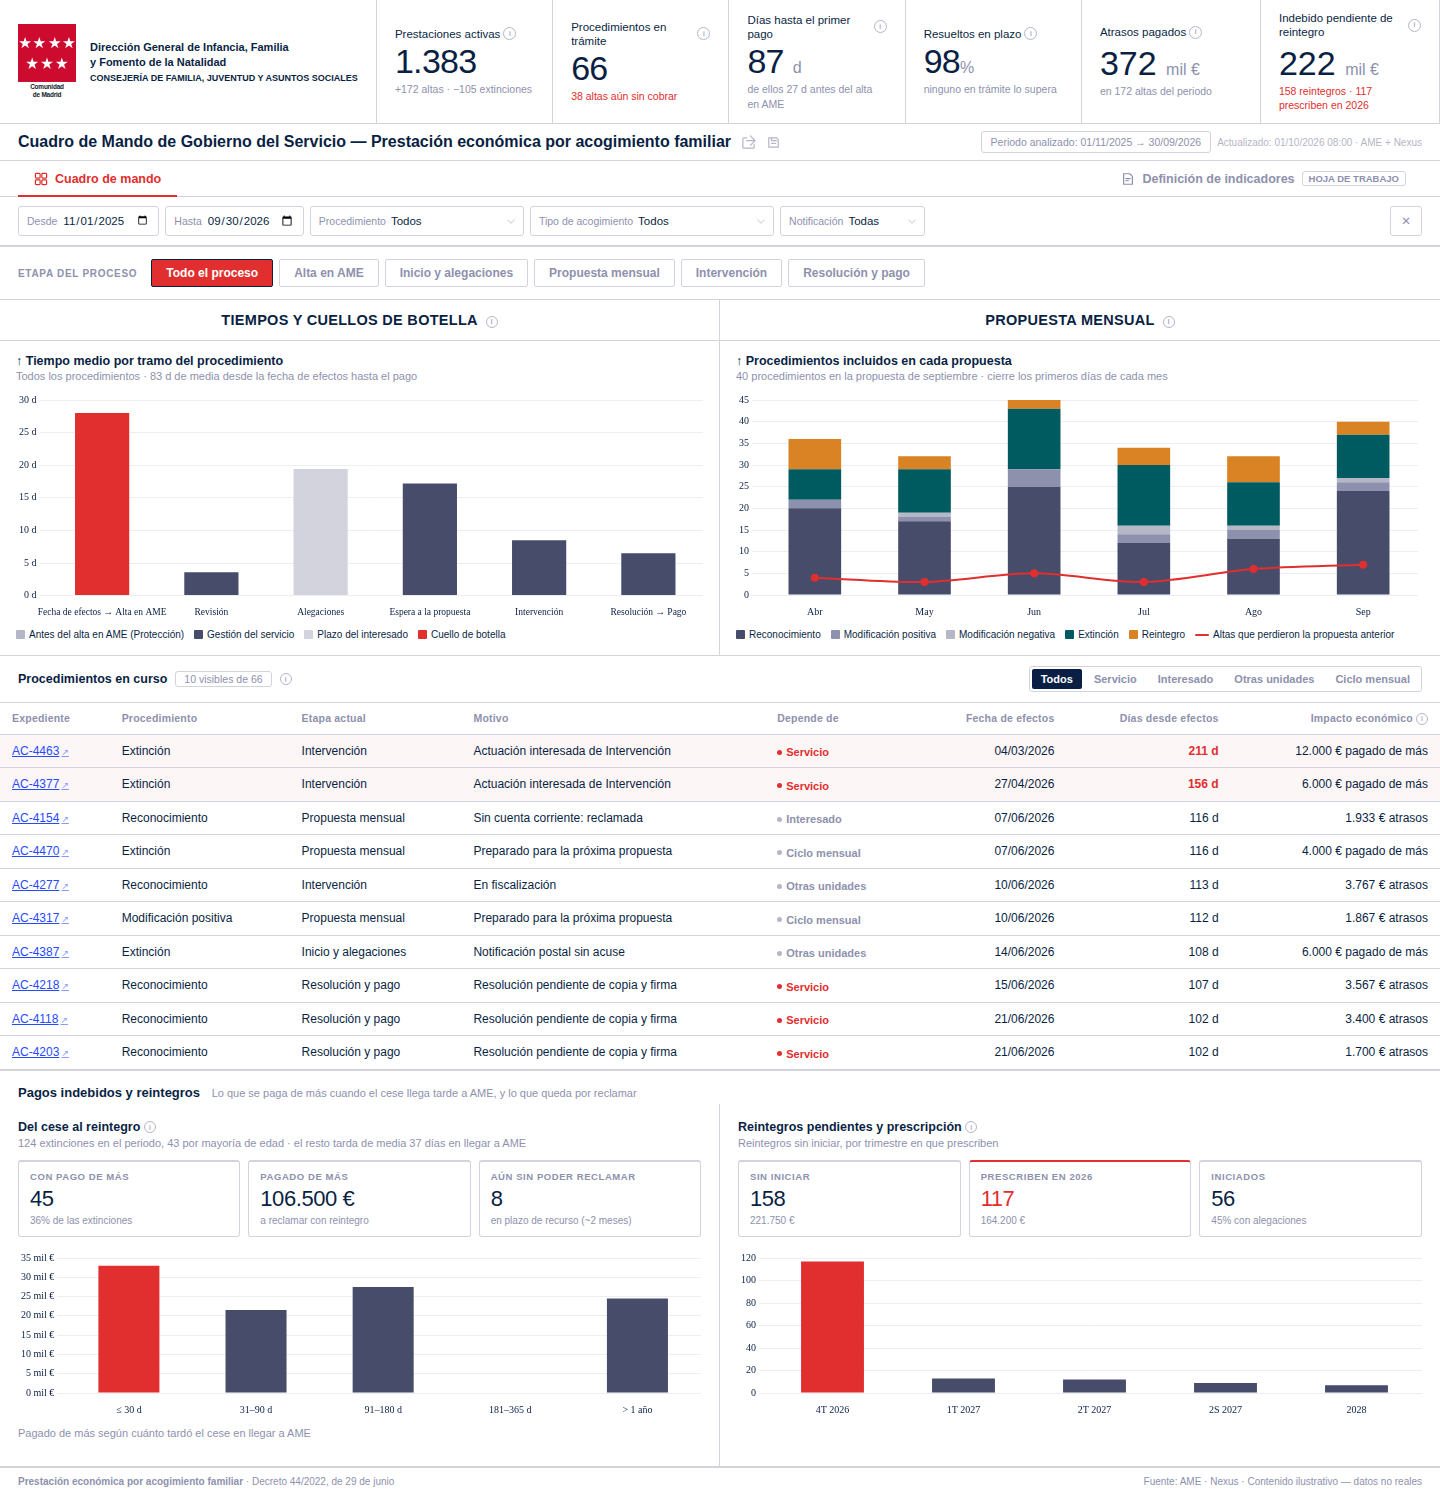
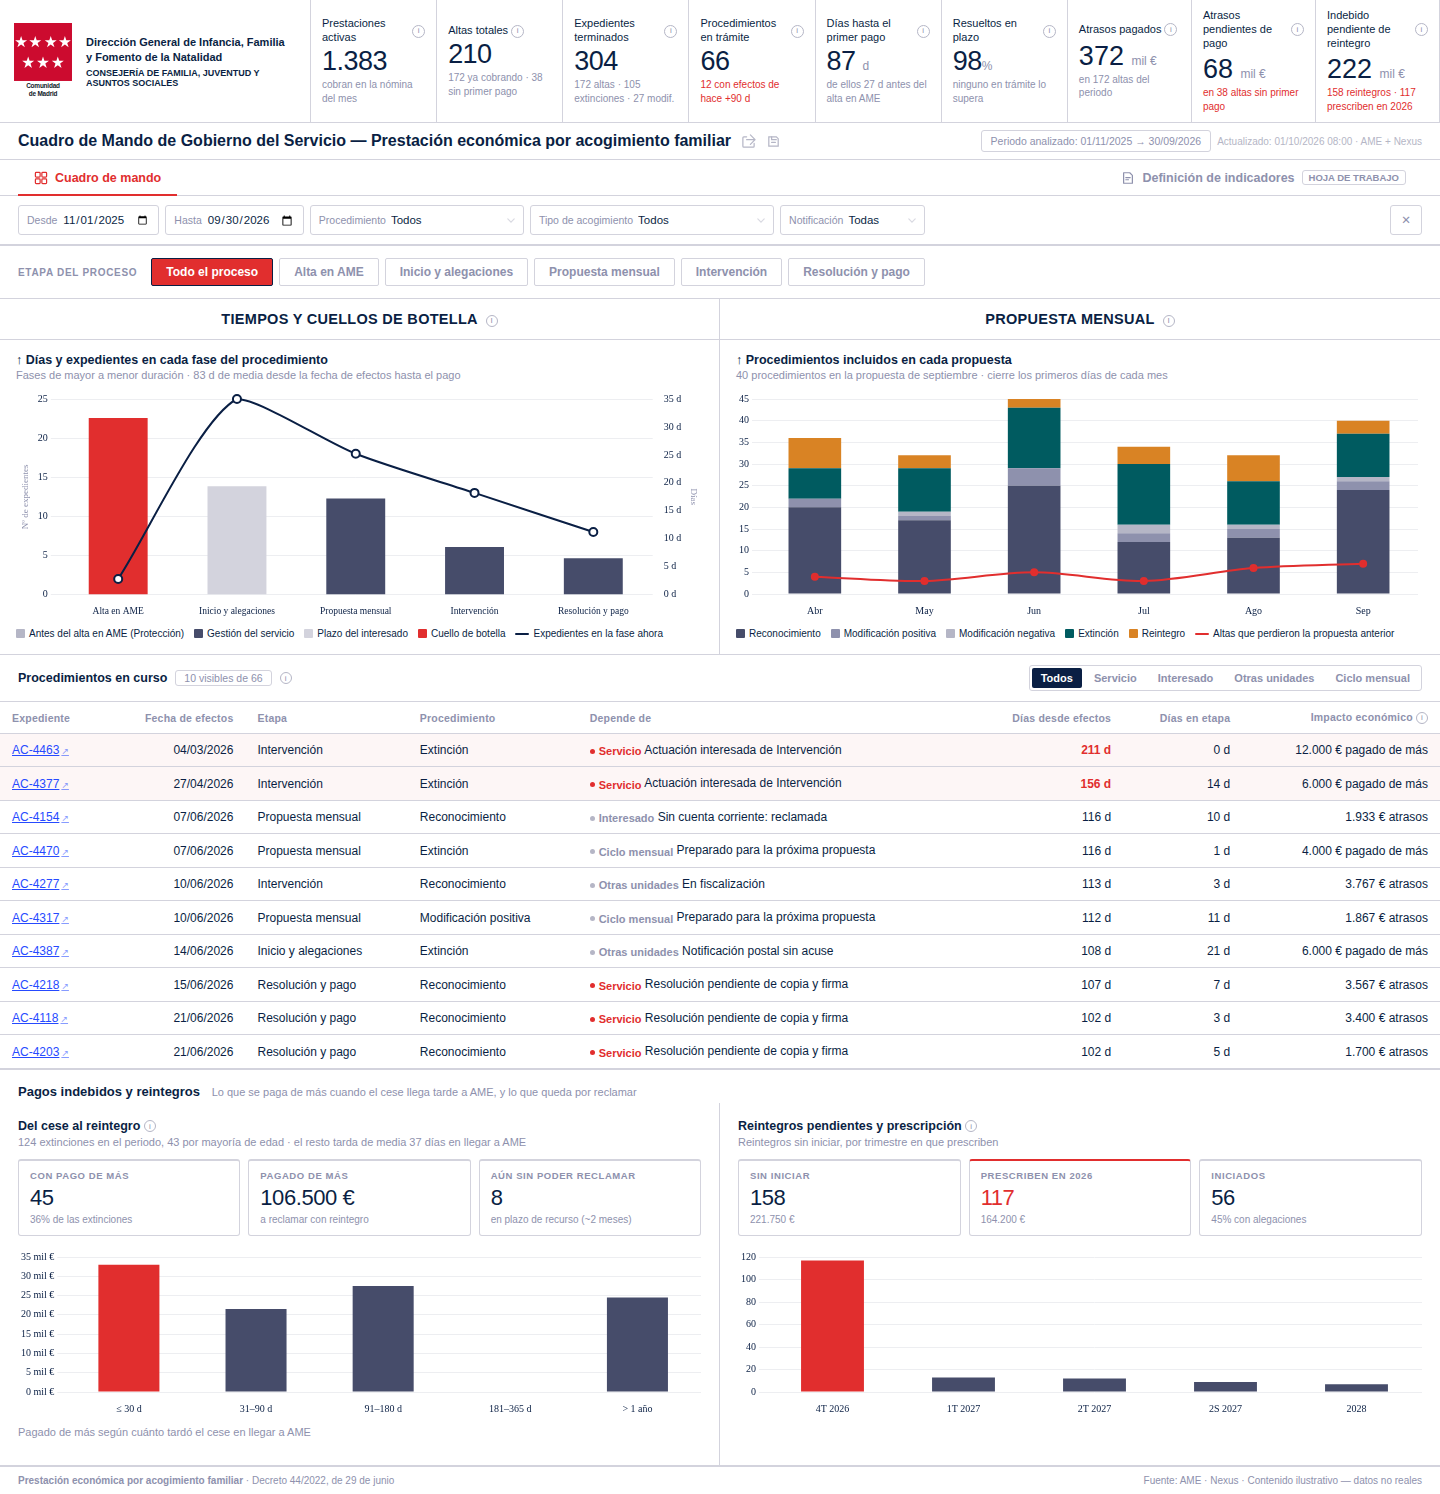
Acogimiento v2: altas totales, expedientes terminados y atrasos pendientes; cuellos de botella por fase con expedientes; tabla solo en el proceso entero
Claude-Session: https://claude.ai/code/session_012PCcGQXYr4PR8xb2pBrhox

diff --git a/mockups/MockupAcogimiento_v2.html b/mockups/MockupAcogimiento_v2.html
@@ -927,7 +927,7 @@ th.col-focus{background:#FAFAFB!important;color:#0A1F44!important;}
   <div class="section">
     <div class="sec-title">Tiempos y cuellos de botella <i class="ii" data-t="Días entre los cambios de etapa registrados en AME, desde la fecha de efectos (formalización del acogimiento, cese o resolución que motiva el procedimiento) hasta el pago. La fecha de efectos es la formalización en el pleno (o la firma del programa de urgencia), el cese o la resolución de discapacidad. El primer tramo ocurre antes de que el expediente llegue a AME: lo graba Protección y el servicio no puede actuar sobre él, pero sí verlo.">i</i></div>
     <div class="sec-chart">
-      <div class="chart-ttl">↑ Tiempo medio por tramo del procedimiento</div>
+      <div class="chart-ttl">↑ Días y expedientes en cada fase del procedimiento</div>
       <div class="chart-sub" id="c1Sub"></div>
       <div class="chart-wrap" style="height:230px;"><canvas id="cTiempo"></canvas></div>
       <div class="legend">
@@ -935,6 +935,7 @@ th.col-focus{background:#FAFAFB!important;color:#0A1F44!important;}
         <div class="leg"><div class="leg-sq" style="background:#464C6A;"></div>Gestión del servicio</div>
         <div class="leg"><div class="leg-sq" style="background:#D3D3DD;"></div>Plazo del interesado</div>
         <div class="leg"><div class="leg-sq" style="background:var(--red);"></div>Cuello de botella</div>
+        <div class="leg"><div class="leg-ln" style="background:#0A1F44;"></div>Expedientes en la fase ahora</div>
       </div>
     </div>
   </div>
@@ -970,10 +971,10 @@ th.col-focus{background:#FAFAFB!important;color:#0A1F44!important;}
 </div>
 
 <!-- ══════════ EXPEDIENTES SIN PAGO ══════════ -->
-<div class="tbl-section">
+<div class="tbl-section" id="tblPend">
   <div class="tbl-hdr">
-    <div class="tbl-title"><span id="pendTtl">Procedimientos en curso</span> <span class="badge" id="badgePend"></span>
-      <i class="ii" id="pendTip" data-t="">i</i></div>
+    <div class="tbl-title"><span>Procedimientos en curso</span> <span class="badge" id="badgePend"></span>
+      <i class="ii" data-t="Reconocimientos, modificaciones y extinciones abiertos, ordenados por los días desde su fecha de efectos: los primeros son los que más atrasos o pagos de más acumulan. «Depende de» indica quién tiene la siguiente acción y por qué.">i</i></div>
     <div class="resp-tabs" id="respTabs">
       <button data-r="" class="on">Todos</button><button data-r="srv">Servicio</button>
       <button data-r="int">Interesado</button><button data-r="otr">Otras unidades</button><button data-r="cic">Ciclo mensual</button>
@@ -1114,8 +1115,11 @@ function limpiar(){ ['fProc','fTipo','fNot'].forEach(i=>$(i).value=''); $('fIni'
 
 /* ── cabecera ── */
 const TIP={
- 'Prestaciones activas':'Expedientes que cobran la prestación en la nómina del mes (en AME, «listado de mantenimiento»): el tamaño del servicio. Se cuenta por expediente: uno puede cubrir a varios menores. Debajo, las altas y extinciones del periodo.',
- 'Procedimientos en trámite':'Reconocimientos, modificaciones y extinciones abiertos en AME a la fecha de corte. Debajo, las altas que todavía no han cobrado ninguna mensualidad: la falta de pago a las familias.',
+ 'Prestaciones activas':'Expedientes que cobran la prestación en la nómina del mes (en AME, «listado de mantenimiento»): el tamaño del servicio. Se cuenta por expediente: uno puede cubrir a varios menores.',
+ 'Altas totales':'Reconocimientos de la prestación que han entrado en AME en el periodo. Debajo, cuántos ya cobran y cuántos esperan todavía el primer pago.',
+ 'Expedientes terminados':'Procedimientos del periodo ya resueltos: altas pagadas, extinciones y modificaciones cerradas.',
+ 'Atrasos pendientes de pago':'Atrasos que acumulan las altas que todavía no han cobrado, desde su fecha de efectos hasta hoy. Se pagarán de golpe en su primera nómina.',
+ 'Procedimientos en trámite':'Reconocimientos, modificaciones y extinciones abiertos en AME a la fecha de corte. Debajo, los que tienen la fecha de efectos de hace más de 90 días.',
  'Días hasta el primer pago':'Días desde la fecha de efectos del acogimiento hasta el primer pago, en las altas ya pagadas. Debajo, cuántos de esos días pasan antes de que Protección grabe el alta en AME: la parte que el servicio no controla.',
  'Resueltos en plazo':'Procedimientos resueltos dentro del plazo legal: 3 meses desde el acuerdo de inicio (Decreto 44/2022, por confirmar). No descuenta las interrupciones imputables al interesado. Debajo, los que siguen en trámite y ya lo han superado.',
  'Atrasos pagados':'Importe de atrasos abonado en la primera nómina de las altas del periodo (Anexo I de la propuesta): las mensualidades desde la fecha de efectos hasta el primer pago. Crece cuanto más tarda el alta en llegar a AME y concentra gasto en un solo mes.',
@@ -1138,17 +1142,23 @@ function renderHdr(P){
   const antes=recFin.length? recFin.reduce((a,e)=>a+e.t[0],0)/recFin.length : 0;
   const res=P.filter(e=>e.etapa>4), enPl=res.filter(e=>diasPlazo(e)<=PLAZO).length;
   const fuera=cur.filter(e=>e.etapa>=2 && (CORTE-(e.alta+e.t[1]*DIA))/DIA>PLAZO).length;
+  const tot=P.filter(e=>e.fin), totR=rec.length, viejos=cur.filter(e=>(CORTE-e.efectos)/DIA>90).length;
+  const mods=tot.filter(e=>e.proc==='mpos'||e.proc==='mneg').length;
   $('kpiGlobal').innerHTML=
-    ks('Prestaciones activas',nfmt(mant),'na',`+${nfmt(altas)} altas · −${nfmt(bajas)} extinciones`)+
-    ks('Procedimientos en trámite',nfmt(cur.length),sinCobrar?'bad':'na',sinCobrar?`${nfmt(sinCobrar)} altas aún sin cobrar`:'ninguna alta sin cobrar')+
+    ks('Prestaciones activas',nfmt(mant),'na','cobran en la nómina del mes')+
+    ks('Altas totales',nfmt(totR),'na',`${nfmt(altas)} ya cobrando · ${nfmt(sinCobrar)} sin primer pago`)+
+    ks('Expedientes terminados',nfmt(tot.length),'na',`${nfmt(altas)} altas · ${nfmt(bajas)} extinciones · ${nfmt(mods)} modif.`)+
+    ks('Procedimientos en trámite',nfmt(cur.length),viejos?'bad':'na',viejos?`${nfmt(viejos)} con efectos de hace +90 d`:'ninguno con efectos de hace +90 d')+
     ks('Días hasta el primer pago',dias?Math.round(dias)+' <span class="u">d</span>':'—','na',dias?`de ellos ${Math.round(antes)} d antes del alta en AME`:'')+
     ks('Resueltos en plazo',res.length?Math.round(enPl/res.length*100)+'<span class="u">%</span>':'—',fuera?'bad':'na',fuera?`${nfmt(fuera)} en trámite ya lo superan`:'ninguno en trámite lo supera');
-  /* atrasos: lo que se paga de golpe en la primera nómina (Anexo I, «importe de atrasos») */
+  /* atrasos: lo pagado de golpe en la primera nómina (Anexo I) y lo que acumulan las altas que aún no cobran */
   const atr=recFin.reduce((a,e)=>a+Math.max(0,e.t.reduce((x,y)=>x+y,0)-30)/30*e.imp,0);
+  const pendA=rec.filter(e=>!e.fin), atrP=pendA.reduce((a,e)=>a+(CORTE-e.efectos)/DIA/30*e.imp,0);
   const R=REINT.filter(r=>(!f.tipo||r.tipo===f.tipo)&&!r.iniciado), r26=R.filter(r=>r.q===0);
   const m=v=>(v/1000).toFixed(0)+' <span class="u">mil €</span>';
   $('kpiInd').innerHTML=
     ks('Atrasos pagados',m(atr),'na',`en ${nfmt(altas)} altas del periodo`,true)+
+    ks('Atrasos pendientes de pago',m(atrP),pendA.length?'bad':'na',`en ${nfmt(pendA.length)} altas sin primer pago`,true)+
     ks('Indebido pendiente de reintegro',m(R.reduce((a,r)=>a+r.imp,0)),'bad',`${nfmt(R.length)} reintegros · ${nfmt(r26.length)} prescriben en 2026`,true);
   $('scopeChip').textContent='Periodo analizado: '+fdate(f.ini)+' → '+fdate(f.fin-DIA);
 }
@@ -1158,14 +1168,17 @@ const baseOpts={responsive:true,maintainAspectRatio:false,animation:false,
   plugins:{legend:{display:false},tooltip:{backgroundColor:NAVY,titleColor:'#fff',bodyColor:'#D3D3DD',padding:9,cornerRadius:3,
     titleFont:{family:'Inter',size:11,weight:'600'},bodyFont:{family:'Inter',size:11}}}};
 const axis={grid:{color:'#EDEEF1'},ticks:{font:{family:'Inter',size:10},color:NAVY},border:{display:false}};
-const chT=new Chart($('cTiempo'),{type:'bar',data:{labels:TRAMOS,datasets:[
-  {label:'Antes del alta en AME',data:[],stack:'s',barPercentage:.62},
-  {label:'Gestión del servicio',data:[],stack:'s',barPercentage:.62},
-  {label:'Plazo del interesado',data:[],stack:'s',barPercentage:.62}]},
-  options:{...baseOpts,plugins:{...baseOpts.plugins,tooltip:{...baseOpts.plugins.tooltip,filter:i=>i.raw>0,
-    callbacks:{label:c=>' '+c.dataset.label+': '+f1(c.raw)+' d'}}},
-    scales:{x:{...axis,stacked:true,grid:{display:false},ticks:{...axis.ticks,maxRotation:0,autoSkip:false,font:{family:'Inter',size:9.5}}},
-            y:{...axis,stacked:true,ticks:{...axis.ticks,callback:v=>v+' d'}}}}});
+const FASES=[['alta','Alta en AME'],['inicio','Inicio y alegaciones'],['propuesta','Propuesta mensual'],['interv','Intervención'],['resol','Resolución y pago']];
+const chT=new Chart($('cTiempo'),{data:{labels:[],datasets:[
+  {type:'line',label:'Expedientes en la fase',data:[],yAxisID:'yN',borderColor:NAVY,backgroundColor:NAVY,borderWidth:2,pointRadius:4,pointBackgroundColor:'#fff',pointBorderWidth:2,tension:.25,order:0},
+  {type:'bar',label:'Antes del alta en AME',data:[],yAxisID:'yD',stack:'s',barPercentage:.62,order:1},
+  {type:'bar',label:'Gestión del servicio',data:[],yAxisID:'yD',stack:'s',barPercentage:.62,order:1},
+  {type:'bar',label:'Plazo del interesado',data:[],yAxisID:'yD',stack:'s',barPercentage:.62,order:1}]},
+  options:{...baseOpts,interaction:{mode:'index',intersect:false},plugins:{...baseOpts.plugins,tooltip:{...baseOpts.plugins.tooltip,filter:i=>i.raw>0,
+    callbacks:{label:c=>' '+c.dataset.label+': '+(c.dataset.yAxisID==='yN'?nfmt(c.raw)+' expedientes':f1(c.raw)+' d')}}},
+    scales:{x:{...axis,grid:{display:false},ticks:{...axis.ticks,maxRotation:0,autoSkip:false,font:{family:'Inter',size:9.5}}},
+            yN:{...axis,position:'left',beginAtZero:true,title:{display:true,text:'Nº de expedientes',font:{family:'Inter',size:9},color:GRY},ticks:{...axis.ticks,precision:0}},
+            yD:{...axis,position:'right',stacked:true,beginAtZero:true,grid:{display:false},title:{display:true,text:'Días',font:{family:'Inter',size:9},color:GRY},ticks:{...axis.ticks,callback:v=>v+' d'}}}}});
 const MESES=['Abr','May','Jun','Jul','Ago','Sep'], MES0=Date.UTC(2026,3,1);
 const PCOL={rec:SLA,mpos:GRY,mneg:GRY2,ext:TEAL,rein:ORA};
 const chP=new Chart($('cProp'),{data:{labels:MESES,datasets:[
@@ -1180,14 +1193,21 @@ $('c2Leg').innerHTML=Object.keys(PROC_N).map(k=>`<div class="leg"><div class="le
 
 function renderAll(P){
   const m=i=>{const g=P.filter(e=>e.etapa>i||e.fin||i===0);return g.length?g.reduce((a,e)=>a+e.t[i],0)/g.length:0;};
-  const tot=TRAMOS.map((_,i)=>m(i)), mx=Math.max(...tot), mi=tot.indexOf(mx);
-  const comp=c=>tot.map((v,i)=>COMP[i]===c?Math.round(v*10)/10:0);
-  chT.data.datasets[0].data=comp('fuera'); chT.data.datasets[1].data=comp('srv'); chT.data.datasets[2].data=comp('int');
+  const t=[0,1,2,3,4,5].map(m);
+  /* días por fase, separando de quién es el tiempo: Alta en AME = fecha de efectos → alta (Protección) + revisión */
+  const F5=[{fuera:t[0],srv:t[1],int:0},{fuera:0,srv:0,int:t[2]},{fuera:0,srv:t[3],int:0},{fuera:0,srv:t[4],int:0},{fuera:0,srv:t[5],int:0}];
+  const enF=FASES.map((_,i)=>P.filter(e=>!e.fin&&e.etapa===i+1).length);
+  const ord=FASES.map((_,i)=>i).sort((a,b)=>(F5[b].fuera+F5[b].srv+F5[b].int)-(F5[a].fuera+F5[a].srv+F5[a].int));
+  chT.data.labels=ord.map(i=>FASES[i][1]);
+  chT.data.datasets[0].data=ord.map(i=>enF[i]);
   const base={fuera:GRY2,srv:SLA,int:GRY3};
-  ['fuera','srv','int'].forEach((c,d)=>{ chT.data.datasets[d].backgroundColor=tot.map((_,i)=>i===mi&&COMP[i]===c?RED:base[c]); });
+  ['fuera','srv','int'].forEach((c,d)=>{
+    chT.data.datasets[d+1].data=ord.map(i=>Math.round(F5[i][c]*10)/10);
+    /* el cuello de botella (la primera barra, la más larga) en rojo */
+    chT.data.datasets[d+1].backgroundColor=ord.map((i,k)=>k===0&&F5[i][c]>0?RED:base[c]); });
   chT.update();
-  const total=tot.reduce((a,b)=>a+b,0);
-  $('c1Sub').textContent=`Todos los procedimientos · ${Math.round(total)} d de media desde la fecha de efectos hasta el pago`;
+  const total=t.reduce((a,b)=>a+b,0);
+  $('c1Sub').textContent=`Fases de mayor a menor duración · ${Math.round(total)} d de media desde la fecha de efectos hasta el pago`;
   /* propuestas de abril a septiembre */
   const mesDe=t=>{const d=new Date(t);return (d.getUTCFullYear()-2026)*12+d.getUTCMonth()-3;};
   Object.keys(PROC_N).forEach((k,d)=>{ chP.data.datasets[d].data=MESES.map((_,j)=>P.filter(e=>e.proc===k&&e.etapa>3&&mesDe(e.prop)===j).length); });
@@ -1214,31 +1234,23 @@ const RESP_N={srv:'Servicio',int:'Interesado',otr:'Otras unidades',cic:'Ciclo me
    (los que más atrasos o pagos de más acumulan). En una etapa: los que están en ella, por días en la etapa. */
 const UMBRAL={alta:7,inicio:25,propuesta:35,interv:15,resol:10};   /* días en la etapa a partir de los que se marca la fila */
 function renderPend(P){
-  const todo=stageKey==='all';
   const enEtapa=e=>Math.round((CORTE-(e.alta+e.t.slice(1,e.etapa).reduce((a,b)=>a+b,0)*DIA))/DIA);
-  const rows=P.filter(e=>!e.fin && (todo||e.etapa===ST[stageKey].k)).map(e=>{const [m,r]=motivo(e);
+  const rows=P.filter(e=>!e.fin).map(e=>{const [m,r]=motivo(e);
     const d=Math.round((CORTE-e.efectos)/DIA), de=enEtapa(e);
     /* impacto: el alta acumula atrasos; la modificación positiva, solo la diferencia; la extinción, lo pagado de más */
     const inc = e.proc==='mpos' ? IMP['Carácter especial']-IMP['Carácter general'] : e.imp;
     const imp = e.proc==='ext' ? (e.indeb ? {v:e.indeb,t:'pagado de más'} : null) : e.proc==='mneg' ? null : {v:Math.round(d/30*inc),t:'atrasos'};
     return {e,m,r,d,de,imp};})
-    .filter(x=>!respKey||x.r===respKey).sort((a,b)=> todo ? b.d-a.d : b.de-a.de);
-  const crit=x=> todo ? x.d>120 : x.de>UMBRAL[stageKey];
-  $('pendTtl').textContent = todo ? 'Procedimientos en curso' : 'Procedimientos en la etapa · '+ST[stageKey].n;
-  $('pendTip').dataset.t = todo
-    ? 'Reconocimientos, modificaciones y extinciones abiertos, ordenados por los días desde su fecha de efectos: los primeros son los que más atrasos o pagos de más acumulan. «Depende de» indica quién tiene la siguiente acción.'
-    : 'Procedimientos que están ahora en esta etapa, ordenados por los días que llevan en ella. En rojo, los que superan '+UMBRAL[stageKey]+' días (umbral orientativo, a fijar con el servicio).'
-      + (stageKey==='alta' ? ' Los acogimientos que Protección todavía no ha grabado no aparecen: aún no están en AME.' : '');
-  $('thPend').innerHTML='<tr><th>Expediente</th><th>Procedimiento</th>'+(todo?'<th>Etapa actual</th>':'')+'<th>Motivo</th><th>Depende de</th>'+
-    '<th class="r">Fecha de efectos</th><th class="r">'+(todo?'Días desde efectos':'Días en la etapa')+'</th>'+
+    .filter(x=>!respKey||x.r===respKey).sort((a,b)=>b.d-a.d);
+  $('thPend').innerHTML='<tr><th>Expediente</th><th class="r">Fecha de efectos</th><th>Etapa</th><th>Procedimiento</th><th>Depende de</th>'+
+    '<th class="r">Días desde efectos</th><th class="r">Días en etapa</th>'+
     '<th class="r">Impacto económico <i class="ii" data-t="Altas: atrasos que se acumulan hasta el primer pago. Modificaciones positivas: la diferencia de importe. Extinciones: lo pagado de más desde el cese, que habrá que reclamar.">i</i></th></tr>';
   $('badgePend').textContent=`${Math.min(10,rows.length)} visibles de ${nfmt(rows.length)}`;
-  $('tbPend').innerHTML = rows.length ? rows.slice(0,10).map(x=>`<tr${crit(x)?' class="row-crit"':''}>
-    <td><a class="exp-link">${x.e.id}</a></td><td>${PROC_N[x.e.proc]}</td>${todo?`<td>${ETAPA_N[x.e.etapa]}</td>`:''}<td>${x.m}</td>
-    <td><span class="resp-chip ${x.r==='srv'?'r-adm':'r-sol'}">${RESP_N[x.r]}</span></td>
-    <td class="r">${fdate(x.e.efectos)}</td><td class="r ${crit(x)?'hi-d':''}">${todo?x.d:x.de} d</td>
-    <td class="r">${x.imp===null?'—':eur(x.imp.v)+' <span class="dsv">'+x.imp.t+'</span>'}</td></tr>`).join('')
-    : `<tr><td colspan="${todo?8:7}" style="color:var(--cgy);padding:14px 12px;">Ningún procedimiento en esta etapa a la fecha de corte.</td></tr>`;
+  $('tbPend').innerHTML=rows.slice(0,10).map(x=>`<tr${x.d>120?' class="row-crit"':''}>
+    <td><a class="exp-link">${x.e.id}</a></td><td class="r">${fdate(x.e.efectos)}</td><td>${ETAPA_N[x.e.etapa]}</td><td>${PROC_N[x.e.proc]}</td>
+    <td><span class="resp-chip ${x.r==='srv'?'r-adm':'r-sol'}" title="${x.m}">${RESP_N[x.r]}</span> <span class="dsv">${x.m}</span></td>
+    <td class="r ${x.d>120?'hi-d':''}">${x.d} d</td><td class="r">${x.de} d</td>
+    <td class="r">${x.imp===null?'—':eur(x.imp.v)+' <span class="dsv">'+x.imp.t+'</span>'}</td></tr>`).join('');
 }
 document.querySelectorAll('#respTabs button').forEach(b=>b.onclick=()=>{respKey=b.dataset.r;
   document.querySelectorAll('#respTabs button').forEach(x=>x.classList.toggle('on',x===b)); renderPend(pob());});
@@ -1344,7 +1356,8 @@ function render(){
   $('secAll').style.display=todo?'':'none'; $('actBlk').style.display=todo?'none':'';
   $('phaseMeta').textContent=todo?'':ST[stageKey].meta;
   if(todo) renderAll(P); else { dimOpts(); renderAct(); }
-  renderPend(P);
+  $('tblPend').style.display=todo?'':'none';
+  if(todo) renderPend(P);
   renderInd(P);
 }
 document.querySelectorAll('.phase-pill').forEach(b=>b.onclick=()=>{stageKey=b.dataset.stage;
@@ -1391,7 +1404,13 @@ dfInit(); render();
 .act-tbl .src{display:inline-block;margin-left:6px;font-size:9px;font-weight:600;color:var(--cgy);border:1px solid var(--cbd);border-radius:3px;padding:0 4px;vertical-align:1px;}
 .act-tbl .src.q{color:#D98324;border-color:#F1D3A8;}
 .kpi-strip{min-width:0;} #kpiGlobal,#kpiInd{min-width:0;} .kpi-strip .ks{flex:1 1 0;min-width:0;}
-.kpi-strip .ks-lbl{white-space:normal;line-height:1.25;}
+.kpi-strip .ks-lbl{white-space:normal;line-height:1.25;font-size:11px!important;}
+.kpi-strip .ks{padding:9px 11px!important;}
+.kpi-strip .ks-val{font-size:27px!important;white-space:nowrap;}
+.kpi-strip .ks-val .u{font-size:12px!important;}
+.kpi-strip .ks-delta{font-size:10px!important;}
+.hdr .brand{min-width:0!important;padding:12px 14px!important;}
+.hdr .brand-info{max-width:210px;}
 #tbPend .hi-d{color:var(--cred);font-weight:600;}
 .pz-col .bgt-cards{display:grid;grid-template-columns:repeat(3,1fr);gap:8px;margin-top:10px;}
 .bc{border:1px solid var(--cbd);border-top-width:2px;background:#fff;display:flex;flex-direction:column;}
